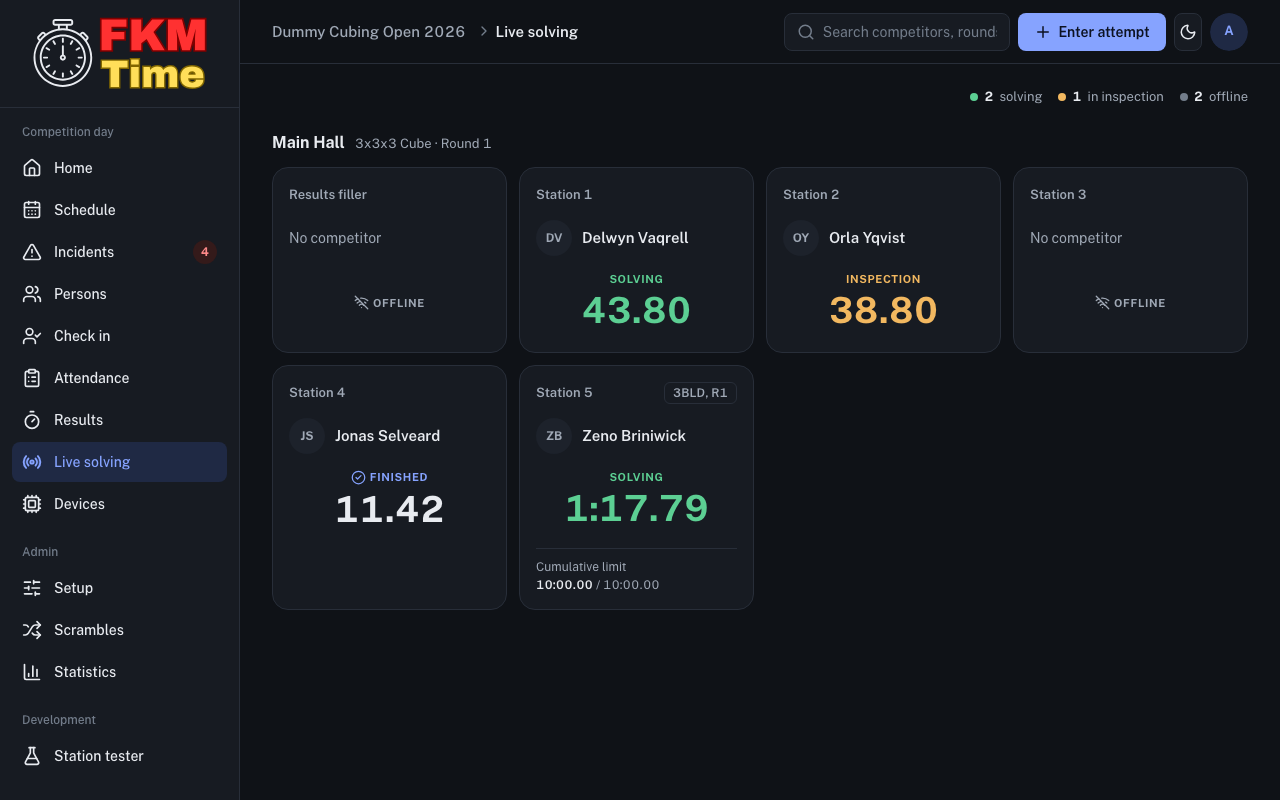
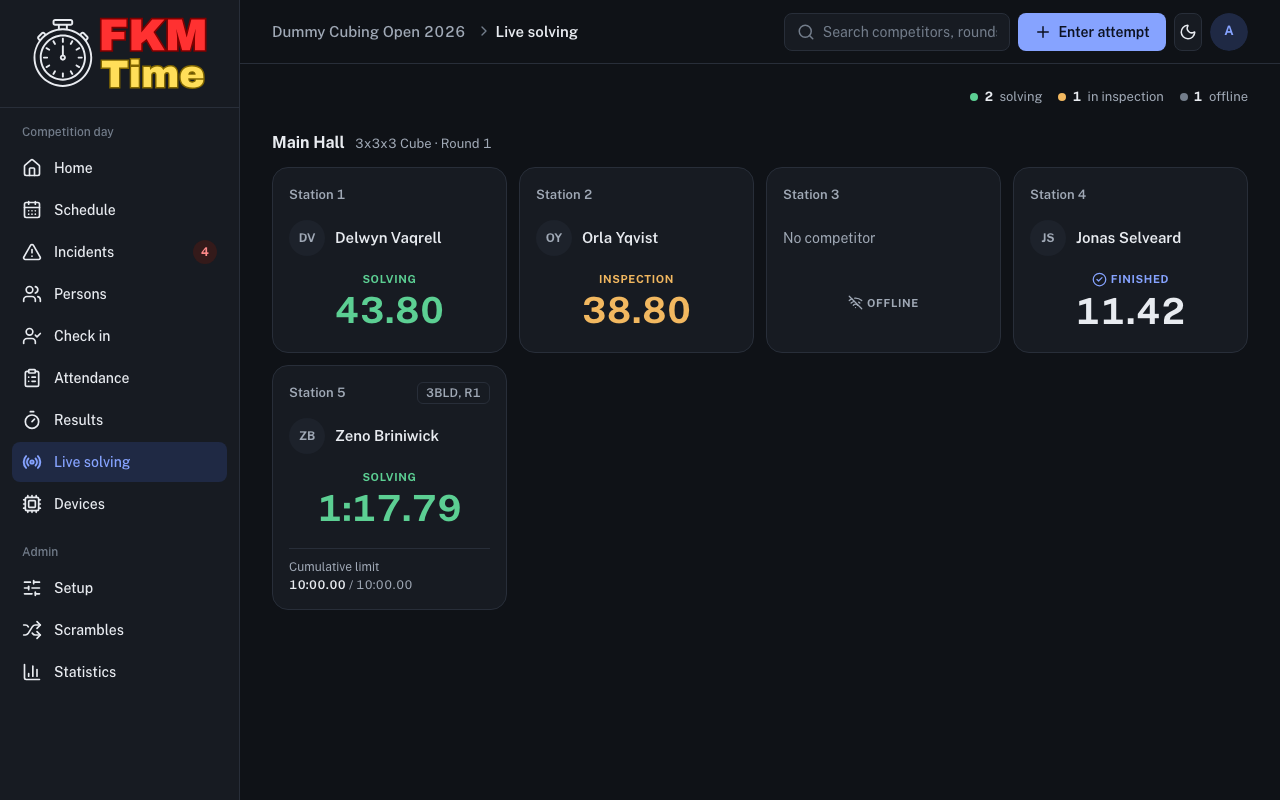
docs: drop dev-only items from the staff live solving screenshot
The staff Live solving screenshot showed the dev build's Station tester
nav item and the "Results filler" station that tool creates, neither of
which exists in a production panel. Remove both and correct the offline
count to match.

Also match the app: the incident badge reaches users with delegate
access too (the incidents socket room admits them), the public sidebar
has items rather than tabs, and the panel search exists only on the
desktop layout.

diff --git a/docs/during-the-competition/public-display.md b/docs/during-the-competition/public-display.md
@@ -14,7 +14,7 @@ Live times come from FKMTime stations, so these screens are meant for competitio
 
 Click **Public display** at the bottom of the sign-in page, or open `/public` on your FKMTime address. Share that link with competitors, for example on a QR code at the venue.
 
-The sidebar has two tabs:
+The sidebar has two items:
 
 - **Live solving** - the station board, described [below](#the-station-board). When the stations span several rooms, you can pick one room or **All rooms**.
 - **Results** - the results of every round. Rounds with a group in progress are listed under **Results** in the sidebar.
@@ -73,7 +73,7 @@ When the round has a cumulative time limit (for example in blindfolded events), 
 Click **Live solving** in the sidebar (or open `/results/live`). It's the same board, with a few additions for staff:
 
 - every station is listed, also ones that haven't sent anything yet, and the counters include how many stations are **offline**
-- for delegates, when a station calls the delegate, its card gets a red border and an **Incident** badge, and the page plays a sound
+- for delegates and users with delegate access, when a station calls the delegate, its card gets a red border and an **Incident** badge, and the page plays a sound
 
 ![Live solving in the panel](../assets/public-display-staff-live.png)
 
@@ -86,4 +86,4 @@ The panel has a copy of the public results, called **Public view**. It works the
 - Delegates open it from a round in **Results**: in the round's more actions menu (**…**), click **Public view**.
 - Everyone else gets the public view when they click **Results** in the sidebar.
 
-Signed-in users can also find **Public display** and **TV view** in the search at the top of the panel.
+Signed-in users can also find **Public display** and **TV view** in the search at the top of the panel (on a computer; the phone layout has no search).
